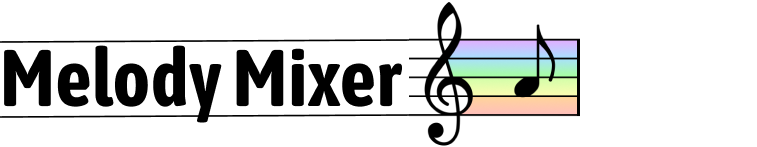
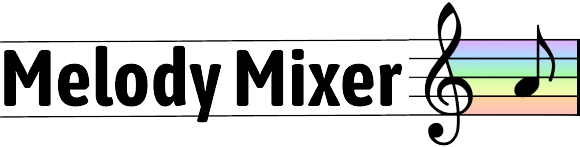
coded gui

diff --git a/melodymixer.py b/melodymixer.py
@@ -3,7 +3,7 @@ from tkinter import filedialog
 from pygame import mixer 
 from PIL import Image, ImageTk
 
-from main import run_main
+#from main import run_main
 
 def upload_file(upload_text):
     file_path = filedialog.askopenfilename(filetypes=[("Audio Files", "*.mid;")])
@@ -26,33 +26,49 @@ class MelodyMixer:
         
         # create window
         self.window = tk.Tk()
+        self.window.configure(bg='white')
+        self.logo_img = Image.open("static/Group 4.png")
+        self.logophoto = ImageTk.PhotoImage(self.logo_img)
+        self.logo_lable = tk.Label(self.window, image=self.logophoto, bg='white')
+        self.logo_lable.grid(row = 0 , column = 0, columnspan=3, pady=10, padx=10)
+        self.window.geometry("800x600")
         self.window.title("Melody Mixer")
-        self.window.geometry("700x500")
         
         # set up visual stuff here for non reactive elements
         self.setup()
         
         # upload text will show the string thats getting inputted after selecting with upload button
-        self.upload_text = tk.Label(self.window, text="Select a *.mid file here!.")
-        self.upload_text.pack()
+        self.upload_text = tk.Label(self.window, text="Select a *.mid file here!", bg='white')
+        self.upload_text.grid(row=3, column=0)
+        self.upload_text.config(font=("Kozuka Mincho Pro R", 12))
 
-        self.upload_button = tk.Button(self.window, text="Upload Audio File", command=self.upload)
-        self.upload_button.pack()
+        self.up_img = Image.open("static/Upload.png")
+        self.up_button = ImageTk.PhotoImage(self.up_img)
+        self.upload_button = tk.Button(self.window, image=self.up_button, bg='white', borderwidth=0,cursor='hand2',highlightthickness = 0, command=self.upload)
+        self.upload_button.grid(row=2, column=0)
         
         # generate calls main
-        self.generate_button = tk.Button(self.window, text="Generate", command=self.generate)
-        self.generate_button.pack(pady=10)
+        self.mix_img = Image.open("static/Group 9.png")
+        self.mix_button = ImageTk.PhotoImage(self.mix_img)
+        self.generate_button = tk.Button(self.window, image=self.mix_button,cursor='hand2', borderwidth=0, highlightthickness = 0, command=self.generate)
+        self.generate_button.grid(row=4, column = 0, pady=10, padx=40)
         
         # play audio using pygame
         self.audio_text = tk.Label(self.window, text="") # this will update after you select play
-        self.audio_text.pack(pady=10)
-
-        self.play_button = tk.Button(self.window, text="Play Audio", command=self.results)
-        self.play_button.pack(pady=10)
+        self.audio_text.grid(row=0, column=2, pady=10, padx=10)
+        self.audiolabel = tk.Label(self.window, text="Play your song here!", bg='white')
+        self.audiolabel.grid(row=3, column=2)
+        self.audiolabel.config(font=("Kozuka Mincho Pro R", 12))
+        self.play_img = Image.open("static/colourPlay.png")
+        self.play_butt = ImageTk.PhotoImage(self.play_img)
+        self.play_button = tk.Button(self.window, image=self.play_butt,bg="white",borderwidth=0, cursor='hand2', command=self.results)
+        self.play_button.grid(row=2, column=2)
         
         # close program
-        self.close_button = tk.Button(self.window, text="Close", command=self.window.destroy)
-        self.close_button.pack(pady=10, padx=5)
+        self.close_img = Image.open("static/Group 8.png")
+        self.close_butt = ImageTk.PhotoImage(self.close_img)
+        self.close_button = tk.Button(self.window, image=self.close_butt,borderwidth=0, cursor='hand2', command=self.window.destroy)
+        self.close_button.grid(row=4, column=2, padx=10, pady=40)
 
         # calls main loop
         self.start()
@@ -61,16 +77,15 @@ class MelodyMixer:
     # set visuals and components here that arent reactive (soph)
     def setup(self):
         
-        # set title
-        self.label = tk.Label(self.window, text="Melody Mixer")
-        self.label.pack(pady=10)
 
         # Subheading
-        subhead_text = "will generate a composed song based on your inputs in a matter of minutes! " \
-                       "Please upload one audio file to begin composing." \
-                        "by Jess, Cass, Soph, Jas " 
-        subhead_label = tk.Label(self.window, text=subhead_text, wraplength=400)
-        subhead_label.pack(pady=10)
+        subhead_text = "Welcome to Melody Mixer a generative AI app that can help write" \
+                        " a fully composed song based on your inputs in a matter of minutes!"\
+                        " Please upload an audio file to begin composing." \
+                        " \n By Jess, Cass, Soph, and Jas " 
+        subhead_label = tk.Label(self.window, text=subhead_text, bg = 'white', wraplength=650)
+        subhead_label.grid(row=1, column=0, columnspan=3, pady=40,padx=70)
+        subhead_label.config(font=("Arial", 12))
 
         
     def button_state(self, button):
@@ -94,8 +109,15 @@ class MelodyMixer:
     def generate(self):
         print('[*] generating')
         self.button_state(self.generate_button)
-        self.OUTPUT_FILE=run_main(self.INPUT_FILE) # set the output to this to self.OUTPUT_FILE
-    
+        #self.loading_img = Image.open("static/Loading.gif")
+        #self.loading = ImageTk.PhotoImage(self.loading_img)
+        #self.loading_label = tk.Label(self.window, image=self.loading, bg='white')
+        #self.loading_label.grid(row=3, column=1, pady=10, padx=10)
+        
+        #self.OUTPUT_FILE=run_main(self.INPUT_FILE) # set the output to this to self.OUTPUT_FILE
+        
+        #self.loading_label.destroy()
+       
 
     # listen to the results
     def results(self, output_file=None):
@@ -133,25 +155,3 @@ if __name__ == "__main__":
     main()
 
 
-# # Title
-# title_image = tk.PhotoImage(file="static/Group 4.png")  # Assuming this is your image path
-# title_label = tk.Label(self.window, image=title_image)
-# title_label.grid(row=0, column=0)
-
-# # Subheading
-# subhead_text = "Welcome to Melody Mixer, a generative AI app that can help write " \
-#                "a fully composed song based on your inputs in a matter of minutes! " \
-#                "Please upload one audio file to begin composing."
-# subhead_label = tk.Label(window, text=subhead_text, wraplength=400)
-# subhead_label.grid(row=1, column=0)
-
-
-# # Audio playback section
-
-
-# # Next page button (placeholder)
-# next_page_button = tk.Button(window, text="Next Page", command=start_nn)
-# next_page_button.grid(row=5, column=0)
-
-# # Run the Tkinter event loop
-# window.mainloop()
